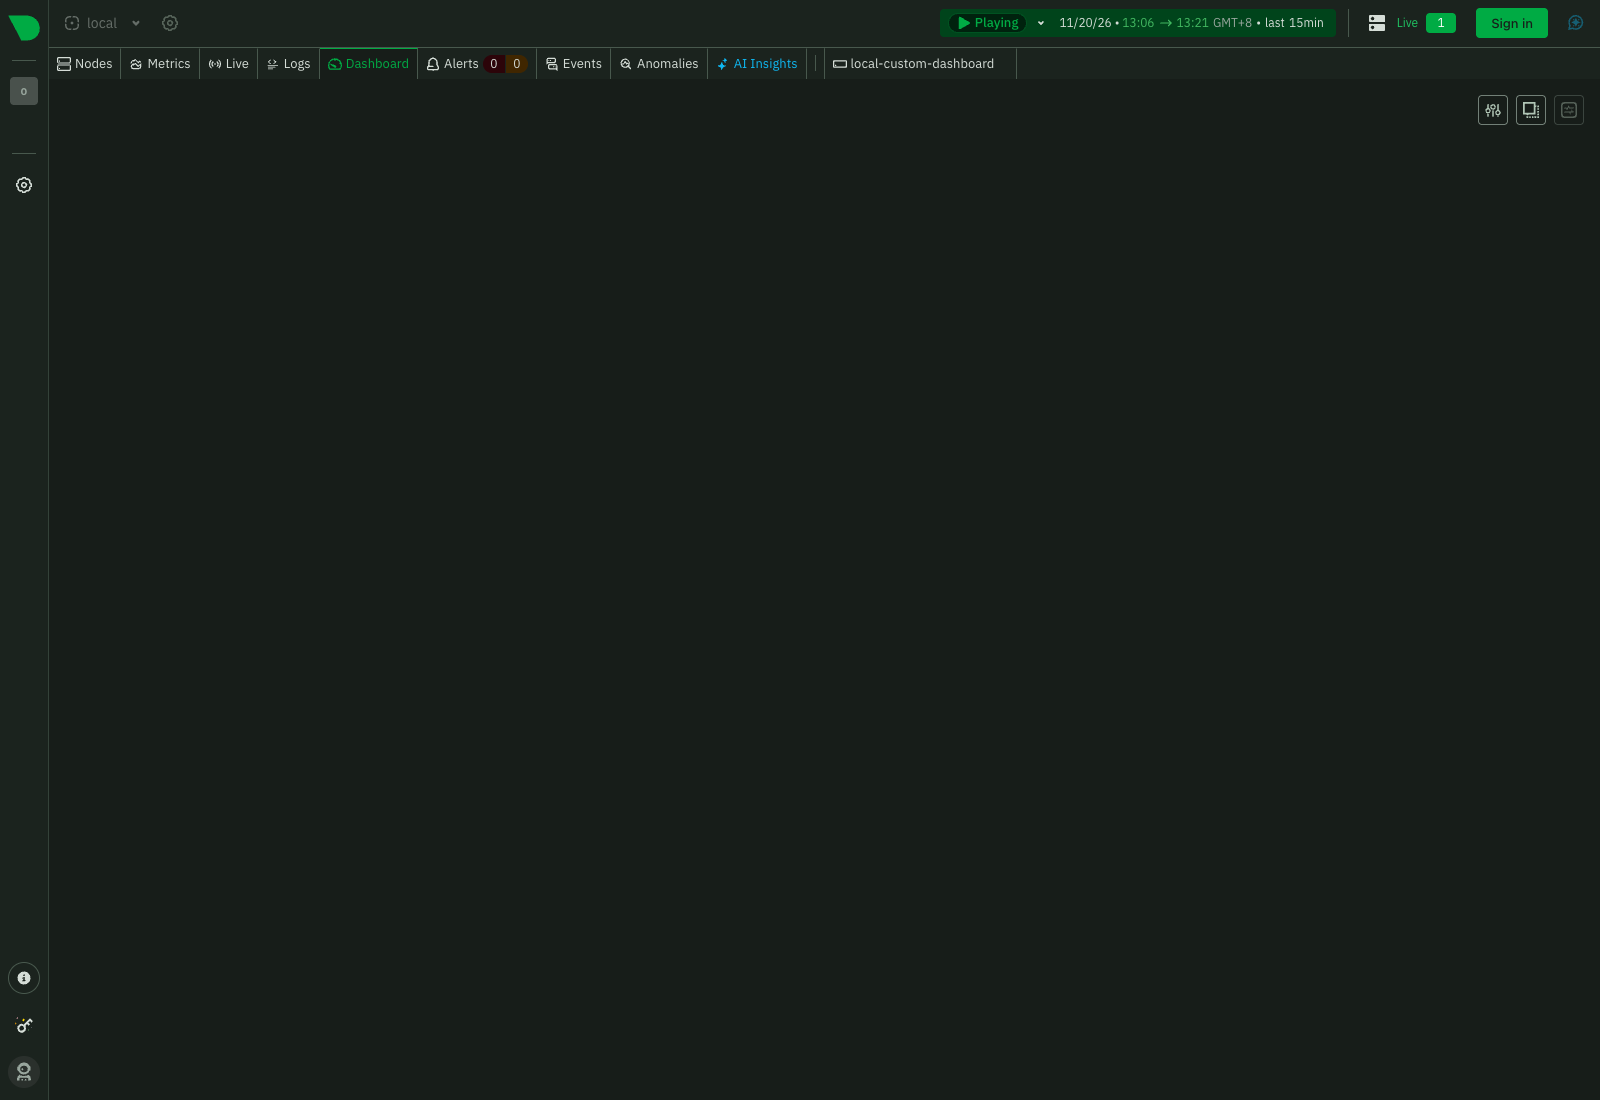
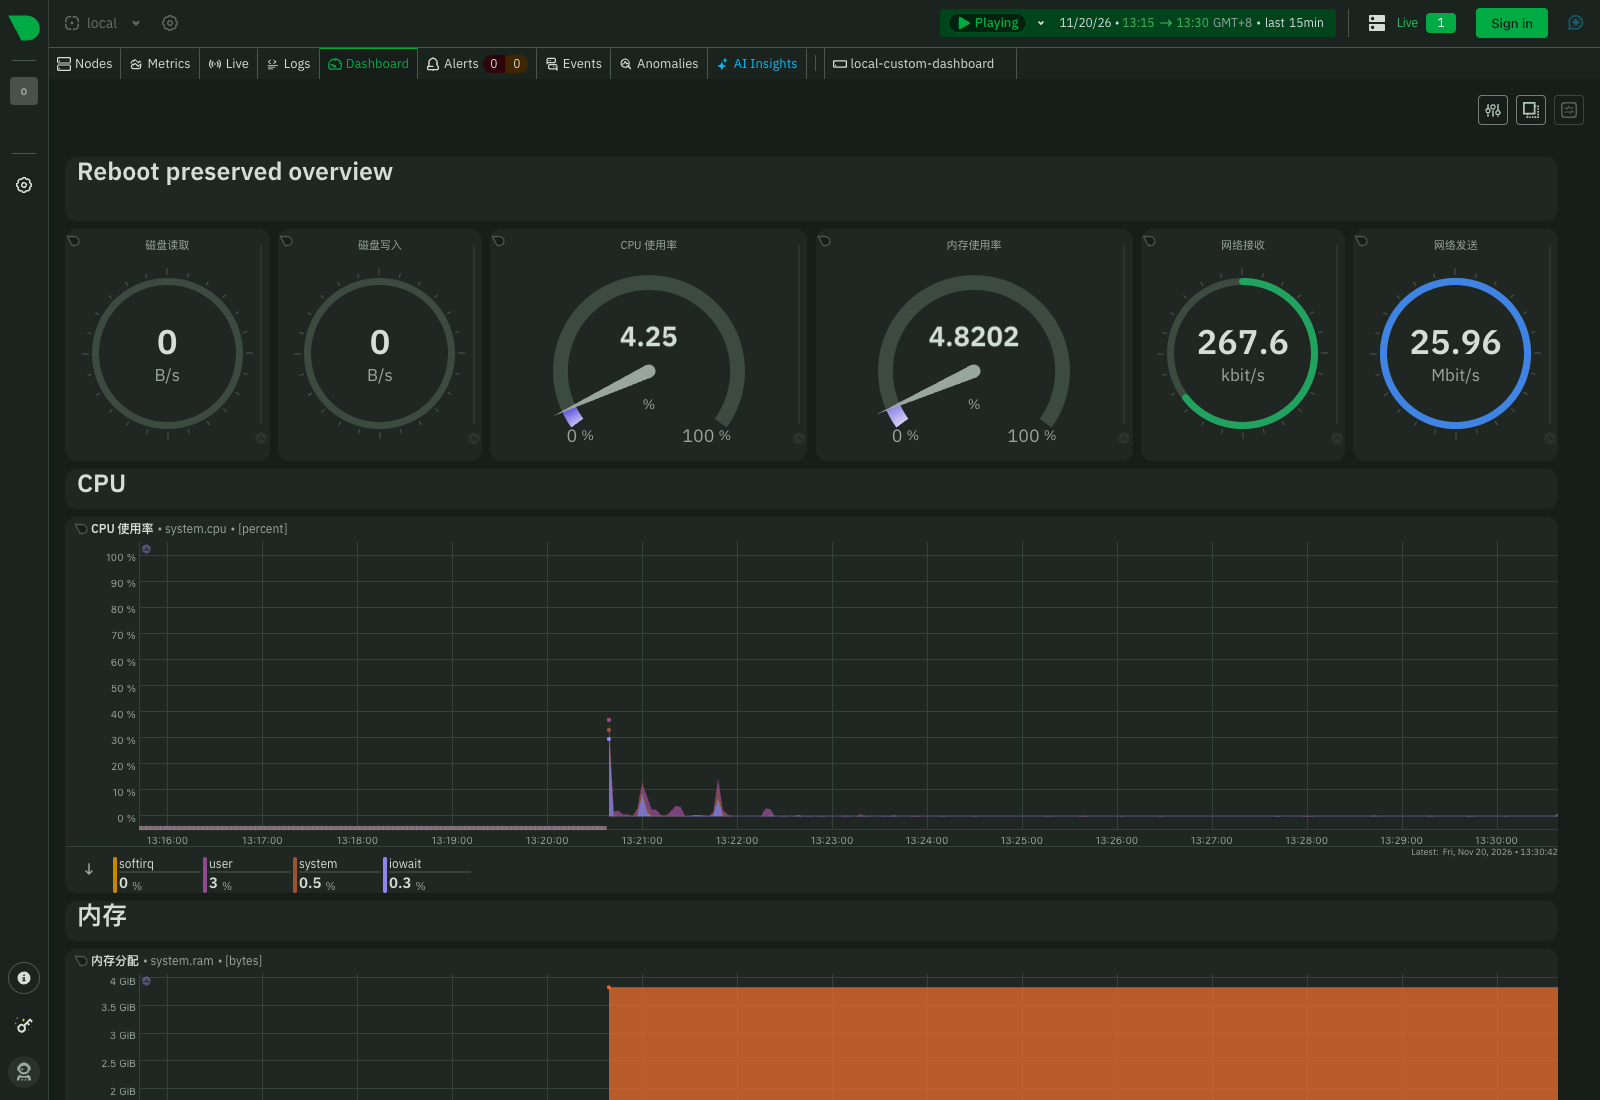
Document verified public release and refresh reboot capture

diff --git a/docs/netdata-overview-acceptance-20261120.md b/docs/netdata-overview-acceptance-20261120.md
@@ -68,7 +68,9 @@
 
 ![实际 Safari 离线首次加载](images/netdata-overview-20261120/safari-overview.png)
 
-![离线重启后保留个人布局](images/netdata-overview-20261120/reboot-preserved.png)
+截图补拍于离线重启验收完成、实验 WAN 链路恢复后；原浏览器仍保留个人修改。离线重启本身的服务、路由和浏览器证据见上文 JSON。
+
+![重启后保留个人布局](images/netdata-overview-20261120/reboot-preserved.png)
 
 ## 边界与回滚
 
@@ -79,3 +81,5 @@
 9000 保留最终 disk-21 运行，原 disk-16 以及中间测试盘保留；异常时关机切回旧盘。物理机升级前备份配置并保留旧启动盘。浏览器个人布局可用原生编辑器导出，不删除来源不明的记录。
 
 验收后恢复实验 WAN 链路，9001 仍关闭；13 台非目标 VM 配置摘要、宿主路由和 9001 运行配置未变。9001 的说明文字回读从注释形式变成 description 字段，运行配置比较排除该显示格式差异，没有向该 VM 执行配置写入。[隔离回读](evidence/netdata-overview-20261120/isolation.json)、[清理结果](evidence/netdata-overview-20261120/cleanup.json)。
+
+发布交付已通过[GHCR 工作流](https://github.com/jearton/openwrt-pro/actions/runs/44681488699)的完整附件下载、推送、按摘要拉回及 SHA256 核验；匿名发布摘要检查见[证据](evidence/netdata-overview-20261120/publication.json)。最终文档提交 8ad6dd0 的[浏览器 CI](https://github.com/jearton/openwrt-pro/actions/runs/44680887485)与[仓库 CI](https://github.com/jearton/openwrt-pro/actions/runs/44680887735)均通过。

diff --git a/docs/releases.md b/docs/releases.md
@@ -13,6 +13,14 @@ sha256sum -c SHA256SUMS
 
 本次镜像由 189 Linux 构建并在独立 VM 全新安装，完成 Netdata 预置概览的离线、无云账号、独立 Chrome/Safari 与重启验收。[本轮记录与截图](netdata-overview-acceptance-20261120.md)。完整源码 CI 构建和发布附件/GHCR 校验属于独立流程，不能将浏览器 CI 通过表述为完整源码 CI 已完成。
 
+本次[GHCR 发布工作流](https://github.com/jearton/openwrt-pro/actions/runs/44681488699)已完成：下载 Release、核对 tag 上清单、推送 OCI，并按摘要重新拉回验证。匿名访问也已核对 7 个 Release 附件摘要及 3 个 OCI layer。[发布证据](evidence/netdata-overview-20261120/publication.json)。不可变下载引用：
+
+```sh
+oras pull ghcr.io/jearton/openwrt-pro/firmware@sha256:18298a9616ea62f169e96cdfe7b7e475e988bc11e7e69f23d231d1edc65b2308
+```
+
+本次源码版本的[完整源码 CI 重建](https://github.com/jearton/openwrt-pro/actions/runs/44681072770)另外运行，不替代已经完成的 189 构建与最终镜像 VM 验收。
+
 上一版 [v25.12.6-20261120](https://github.com/jearton/openwrt-pro/releases/tag/v25.12.6-20261120) 的附件和 OCI 摘要保持不变。
 
 ## 持续集成
